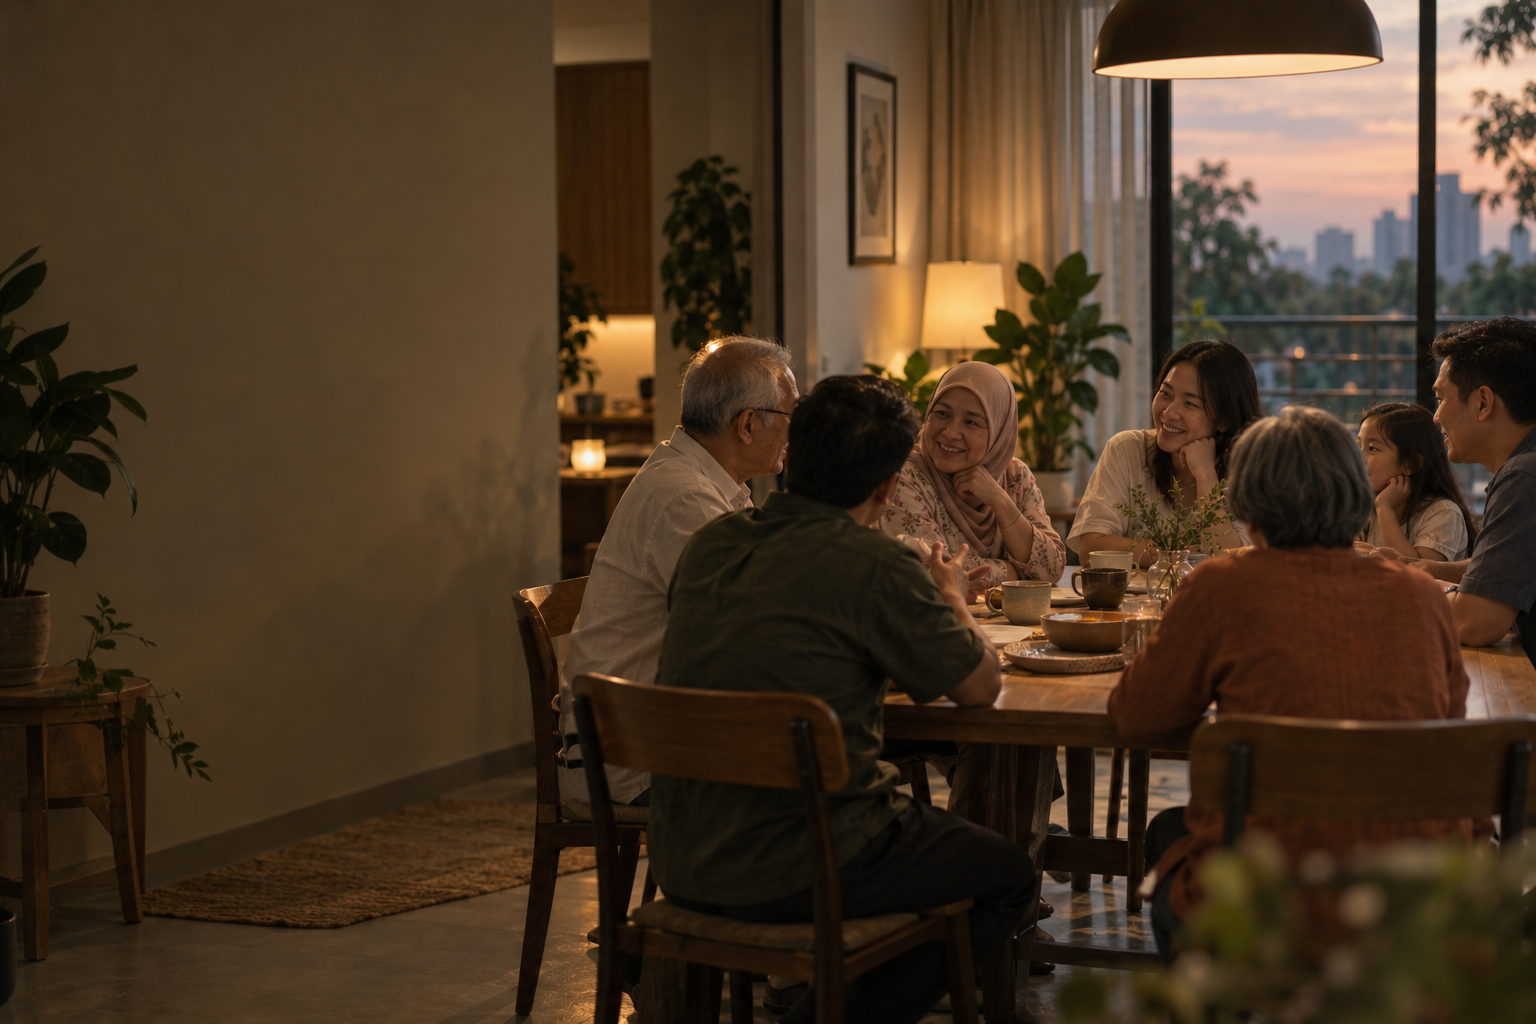
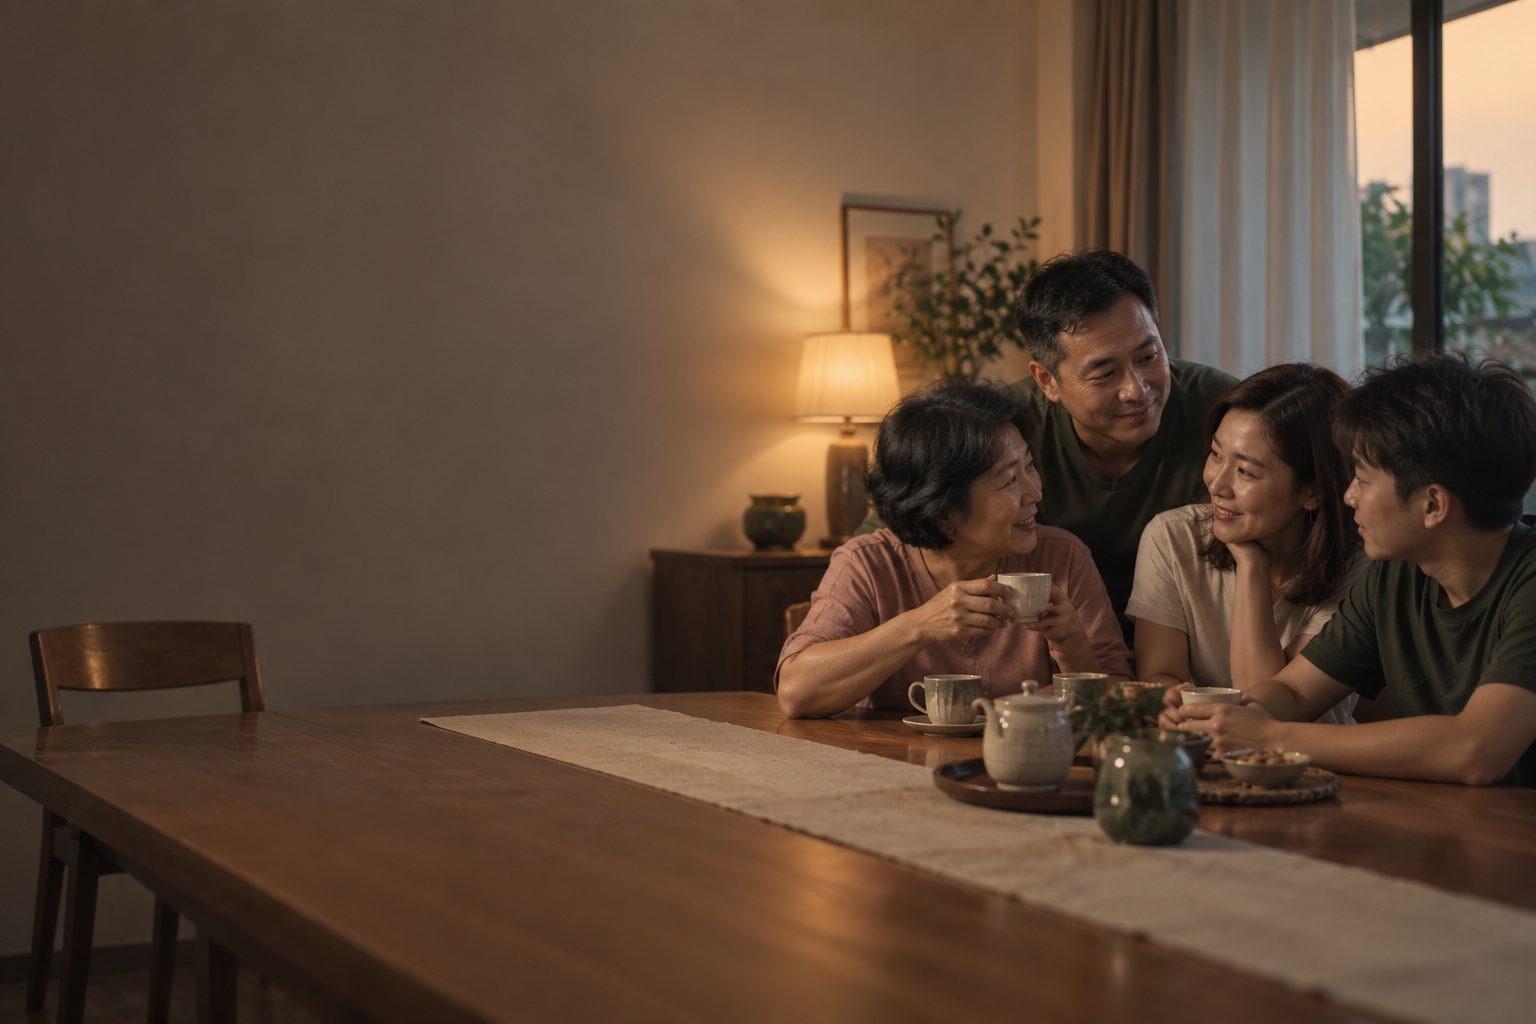
Retire hero.jpg and recompose the next-step band around its phone crop
Four generated photographs from the client, all Chinese Malaysian subjects at
their direction. Installed as JPEG q82: 7 MB of PNG down to 661 KB.

hero.jpg is gone. The dated stock shot of a family at a glass dining table,
which the client marked. Traced before touching anything: it rendered in
exactly two places, Protecting-your-family card 01 and Wealth-&-Legacy card
02, and was never the homepage hero — that is hero-team.jpg. Each card now
has a photograph written to its own caption rather than one picture answering
two different questions. Going with it: the unused PHOTOS.hero alternative in
components/DLife.tsx, kept so reverting the homepage was one word, and six
closing.photo records in content/solutions-e2.ts that named it on a field
nothing had read since the orphaned E2 base was deleted in the audit. The file
itself is deleted.

The next-step band is the one worth reading. Its frame is its own copy box, so
it is 3.14 at 1440 and 0.54 — portrait — at 375, where it keeps only the right
36% of the picture's width. The outgoing image spread seven people across the
middle and lost three of them on a phone, and I had recorded that as
structural: unfixable without redesigning all ten cards. It was fixable in the
photograph. This one was briefed to put four people in the right third with
the left half left as room, and masked at 375 with object-position 100% 50%,
all four survive. X=78% was tested and rejected — it cuts the son in half. The
[…]

diff --git a/content/solutions-e2.ts b/content/solutions-e2.ts
@@ -45,7 +45,13 @@ export type SolutionE2 = {
   /** `photo` omitted renders the plain variant — the same quote, no photograph. */
   said: { photo?: Photo; quote: string; cite: string };
   qa: { label: string; title: string };
-  closing: { photo: Photo; title: string; lede: string };
+  /* `photo` removed 15 Sep 2026. The live template, components/v2/SolutionPage
+     .tsx, renders <ClosingCard> without one — the band's ground is
+     CLOSING_PHOTO in components/v2/blocks.tsx — and the only other reader was
+     the orphaned E2 base, deleted in the September audit. All six records were
+     naming hero.jpg, a photograph the client has since rejected, on a field no
+     route read. */
+  closing: { title: string; lede: string };
   /** Primary action label, repeated in the hero and the closing panel. */
   action: string;
 };
@@ -114,7 +120,12 @@ export const SOLUTIONS_E2: Record<string, SolutionE2> = {
     duo: { src: "/media/img/close-conversation.jpg", alt: "An advisor mid-conversation with two people" },
     split: { photo: { src: "/media/img/path-future.jpg", alt: "A desk with photographs and keepsakes" }, label: "What usually prompts this", title: "5 signs it’s worth having this conversation", flip: false },
     moments: [
-      { src: "/media/img/hero.jpg", alt: "A family sharing a meal at home" },
+      /* Client, 15 Sep 2026: hero.jpg — the dated stock shot of a family at a
+         glass dining table — was marked for replacement wherever it appeared.
+         It rendered in two card slots, this one and Wealth & Legacy 02, and
+         each now has a purpose-made photograph written to its own caption
+         rather than one picture serving two different questions. */
+      { src: "/media/img/family-01-newborn.jpg", alt: "A couple at home with their newborn" },
       { src: "/media/img/fam-newhome.jpg", alt: "A couple carrying boxes into a new home" },
       { src: "/media/img/need-legacy-malaysia.jpg", alt: "A family looking through documents and photographs together" },
       { src: "/media/img/policy-review-wide.jpg", alt: "One person explaining something to another" },
@@ -125,7 +136,7 @@ export const SOLUTIONS_E2: Record<string, SolutionE2> = {
     steps: { label: "How the conversation goes", title: "How we work it through" },
     said: { photo: { src: "/media/img/team-gathering.jpg", alt: "The D’Life advisory team together at the office" }, quote: "The families who are glad they did this are rarely the ones who bought the most. They are the ones who understood what they bought.", cite: "D’Life advisory team" },
     qa: { label: "", title: "Common questions" },
-    closing: { photo: { src: "/media/img/hero.jpg", alt: "An interior ceiling with a ring chandelier", position: "50% 42%" }, title: "Start with a conversation about your household", lede: "No forms, no products in the first meeting. Just what your family would need, and what you already have in place." },
+    closing: { title: "Start with a conversation about your household", lede: "No forms, no products in the first meeting. Just what your family would need, and what you already have in place." },
     action: "Talk about protecting my family",
   },
   "protecting-your-income": {
@@ -151,7 +162,7 @@ export const SOLUTIONS_E2: Record<string, SolutionE2> = {
     steps: { label: "How the conversation goes", title: "How we work it through" },
     said: { photo: { src: "/media/img/team-gathering.jpg", alt: "The D’Life advisory team together at the office" }, quote: "People insure the car and the house without thinking. The income that pays for both is the one that gets left to last.", cite: "D’Life advisory team" },
     qa: { label: "", title: "Common questions" },
-    closing: { photo: { src: "/media/img/hero.jpg", alt: "", position: "50% 45%" }, title: "Work out what your income actually has to carry", lede: "Bring your fixed monthly costs. That one number does most of the work in this conversation." },
+    closing: { title: "Work out what your income actually has to carry", lede: "Bring your fixed monthly costs. That one number does most of the work in this conversation." },
     action: "Talk about protecting my income",
   },
   "medical-health-preparation": {
@@ -177,7 +188,7 @@ export const SOLUTIONS_E2: Record<string, SolutionE2> = {
     steps: { label: "How the conversation goes", title: "How we work it through", lede: "Most people who come to us on this subject already have cover. The work is usually understanding it, not replacing it." },
     said: { photo: { src: "/media/img/team-gathering.jpg", alt: "The D’Life advisory team together at the office" }, quote: "Ninety per cent of the medical questions we are asked are answered by a document the client already owns. Reading it together is most of the job.", cite: "D’Life advisory team" },
     qa: { label: "", title: "Common questions" },
-    closing: { photo: { src: "/media/img/hero.jpg", alt: "", position: "50% 40%" }, title: "Have your medical cover explained to you", lede: "Bring your schedule of benefits, or just the policy number. We will walk through what it actually covers, with no obligation to change anything." },
+    closing: { title: "Have your medical cover explained to you", lede: "Bring your schedule of benefits, or just the policy number. We will walk through what it actually covers, with no obligation to change anything." },
     action: "Talk about medical cover",
   },
   "planning-for-your-future": {
@@ -203,7 +214,7 @@ export const SOLUTIONS_E2: Record<string, SolutionE2> = {
     steps: { label: "How the conversation goes", title: "How we work it through" },
     said: { photo: { src: "/media/img/team-gathering.jpg", alt: "The D’Life advisory team together at the office" }, quote: "The best plans we see are not the most sophisticated ones. They are the ones the client can still explain, five years later, without looking anything up.", cite: "D’Life advisory team" },
     qa: { label: "", title: "Common questions" },
-    closing: { photo: { src: "/media/img/hero.jpg", alt: "", position: "50% 42%" }, title: "Put the whole picture in one place", lede: "EPF, savings, property, policies. Seeing it together is usually the point at which planning stops feeling abstract." },
+    closing: { title: "Put the whole picture in one place", lede: "EPF, savings, property, policies. Seeing it together is usually the point at which planning stops feeling abstract." },
     action: "Talk about planning ahead",
   },
   "wealth-legacy": {
@@ -219,7 +230,11 @@ export const SOLUTIONS_E2: Record<string, SolutionE2> = {
     split: { photo: { src: "/media/img/policy-review.jpg", alt: "" }, label: "The questions behind this one", title: "What people are actually asking", flip: false },
     moments: [
       { src: "/media/img/need-health-malaysia.jpg", alt: "Two family members in consultation with an advisor" },
-      { src: "/media/img/hero.jpg", alt: "A family sharing a meal at home" },
+      /* See the note on Protecting-your-family card 01: this is the other
+         placement hero.jpg had. The caption is "how to be fair between
+         children in different circumstances", so the picture is a parent with
+         two adult children whose lives have visibly gone differently. */
+      { src: "/media/img/legacy-02-fairness.jpg", alt: "A mother and her two adult children talking after a meal" },
       { src: "/media/img/need-legacy-wide.jpg", alt: "The reception area of a building" },
       { src: "/media/img/need-planning-wide.jpg", alt: "A woman in the kitchen of a home" },
       { src: "/media/img/path-review.jpg", alt: "A man reading through paperwork at a desk", position: "50% 58%" },
@@ -229,7 +244,7 @@ export const SOLUTIONS_E2: Record<string, SolutionE2> = {
     steps: { label: "How the conversation goes", title: "How we work it through", lede: "Estate matters touch law and tax as well as financial planning. We are clear about where our advice ends." },
     said: { photo: { src: "/media/img/team-gathering.jpg", alt: "The D’Life advisory team together at the office" }, quote: "The families who have the easiest time are not the wealthiest. They are the ones where someone wrote things down and told somebody where they were.", cite: "D’Life advisory team" },
     qa: { label: "", title: "Common questions" },
-    closing: { photo: { src: "/media/img/hero.jpg", alt: "", position: "50% 50%" }, title: "Start with what is already written down", lede: "Your existing nominations and policies. For many people, reviewing those is most of what this needs." },
+    closing: { title: "Start with what is already written down", lede: "Your existing nominations and policies. For many people, reviewing those is most of what this needs." },
     action: "Talk about wealth and legacy",
   },
   "corporate": {
@@ -255,7 +270,7 @@ export const SOLUTIONS_E2: Record<string, SolutionE2> = {
     steps: { label: "How the conversation goes", title: "How we work it through" },
     said: { photo: { src: "/media/img/team-gathering.jpg", alt: "The D’Life advisory team together at the office" }, quote: "A benefits scheme nobody has explained to the staff is a cost, not a benefit. Half the value is in the briefing.", cite: "D’Life advisory team" },
     qa: { label: "", title: "Common questions" },
-    closing: { photo: { src: "/media/img/hero.jpg", alt: "", position: "50% 40%" }, title: "Start with a scoping conversation", lede: "Headcount, what is already in place, and what prompted the question. That is enough for a first discussion." },
+    closing: { title: "Start with a scoping conversation", lede: "Headcount, what is already in place, and what prompted the question. That is enough for a first discussion." },
     action: "Enquire about corporate solutions",
   },
 };

diff --git a/content/service-photos.ts b/content/service-photos.ts
@@ -59,14 +59,10 @@ const replacements: Record<string, { hero?: Photo; moments: Record<number, Photo
     },
     moments: {
       3: { src: "/media/img/inc-savings.jpg", alt: "Coins saved in a glass jar" },
-      /* ⚠ INTERIM. Card 05's own photograph moved to the hero above, so this
-         slot is back on the design's original choice — a contemplative outdoor
-         portrait, which at least reads for "too late to start, or too early to
-         bother". A purpose-made replacement is briefed in
-         docs/dlife-photo-prompts-2026-09-15.md; swap it in when it arrives and
-         delete path-career-wide.jpg again. Without this the hero and card 05
-         would be the same picture twice on one page. */
-      5: { src: "/media/img/path-career-wide.jpg", alt: "A woman outdoors, thinking something over" },
+      /* Card 05's own photograph became this page's hero, so the slot got a
+         picture of its own rather than a second copy. Deliberately a single
+         subject, to sit against the hero's two-people-at-a-table. */
+      5: { src: "/media/img/future-05-start.jpg", alt: "A woman at a window at home, thinking something over" },
     },
   },
   "wealth-legacy": {

diff --git a/components/DLife.tsx b/components/DLife.tsx
@@ -60,10 +60,6 @@ const PHOTOS = {
      rather than on it. Both crops were checked at 712x751 desktop and
      375x463 mobile — every face survives at 50% 42%, which is why that is the
      object-position set in styles/pages.css. */
-  hero: {
-    src: asset("/media/img/hero.jpg"),
-    alt: "A family sharing a meal around their kitchen table",
-  },
   teamHero: {
     src: asset("/media/img/hero-team.jpg"),
     alt: "The D’Life team together",
@@ -107,8 +103,10 @@ const PHOTOS = {
   y3: { src: asset("/media/img/youth-resources.jpg"), alt: "Hands raised during a workshop session" },
 } satisfies Record<string, Photo>;
 
-/** L09: the one place the homepage hero photograph is chosen. `PHOTOS.hero`
- *  is the stock family it replaced, kept so reverting is one word. */
+/** L09: the one place the homepage hero photograph is chosen. It used to name
+ *  a second entry, `PHOTOS.hero` — the stock family this replaced — kept so
+ *  reverting was one word. The client rejected that photograph on 15 Sep 2026
+ *  and hero.jpg is gone from the repo, so the alternative went with it. */
 const HERO_PHOTO = PHOTOS.teamHero;
 
 /**

diff --git a/docs/dlife-asset-map.md b/docs/dlife-asset-map.md
@@ -62,6 +62,51 @@ backdrop and lower body only.
 > founders' portraits needs the client's answer. The alternative is a
 > re-shoot, not a retouch.
 
+## Replacement photography, 15 Sep 2026
+
+Four generated scenes, all Chinese Malaysian subjects at the client's
+direction. Prompts: `docs/dlife-photo-prompts-2026-09-15.md`. Installed as
+JPEG q82 progressive, 7 MB of PNG down to 661 KB. Fictional people.
+
+| File | Where | Frame | Crop, measured and masked |
+|---|---|---|---|
+| `family-01-newborn.jpg` | Protecting your family → card 01 | 16:10 | 6.3% off the height; both parents and the baby whole |
+| `legacy-02-fairness.jpg` | Wealth & Legacy → card 02 | 16:10 | 6.3% off the height; all three whole |
+| `future-05-start.jpg` | Planning → card 05 | 16:10 | 6.3% off the height; single subject whole |
+| `closing-next-step.jpg` | The next-step band, all ten pages | see below | — |
+
+### `hero.jpg` is retired
+
+The dated stock shot of a family at a glass dining table. The client marked it
+on 15 Sep. It rendered in exactly two places — the two cards above — and was
+**not** the homepage hero, which is `hero-team.jpg`. Removed with it: the
+unused `PHOTOS.hero` alternative in `components/DLife.tsx`, and six
+`closing.photo` records in `content/solutions-e2.ts` that named it on a field
+no route had read since the E2 base template was deleted. The file is gone.
+
+### The next-step band's phone crop is fixed, by composition
+
+That card's frame is its own copy box: **3.14 at 1440, 0.54 — portrait — at
+375**, where it keeps only the right 36% of the picture's width. The previous
+image spread seven people across the middle and lost three of them there.
+
+The replacement was briefed to put **four people in the right third** with the
+left half left as room. Masked at 375 with `object-position: 100% 50%`: **all
+four survive.** X=78% was tested and rejected — it bisects the son. The band
+still discards 63.8% of the width on a phone; it now discards furniture
+instead of people.
+
+This is worth remembering as the pattern: the frame could not be fixed in CSS
+without redesigning ten cards, so the picture was composed around it instead.
+
+### Contrast, re-measured
+
+Type sits over the left 42% under a scrim running `rgba(11,33,29)` 0.95 →
+0.86 there. Composited against the new picture's own pixels: **14.1:1 on the
+mean, 13.7:1 against the 95th-percentile brightest pixel**, against AA's
+4.5:1. The outgoing image measured 14.7 / 13.8, so the lamplit left wall cost
+nothing.
+
 ## The next-step band (T06, 14 Sep 2026)
 
 `closing-next-step.jpg` (1536x1024, generated, fictional people) is the ground
